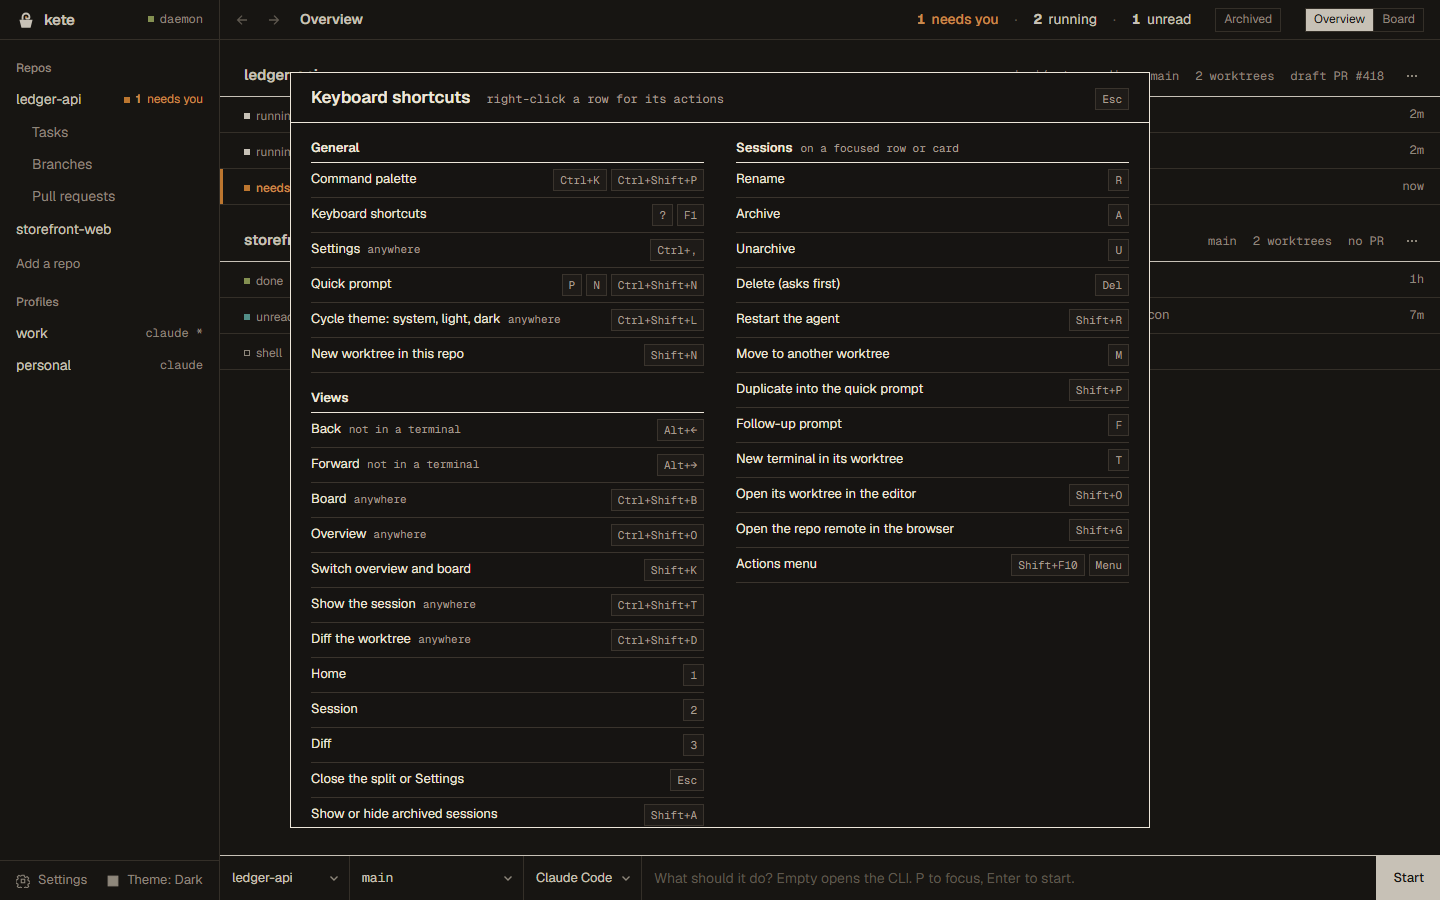
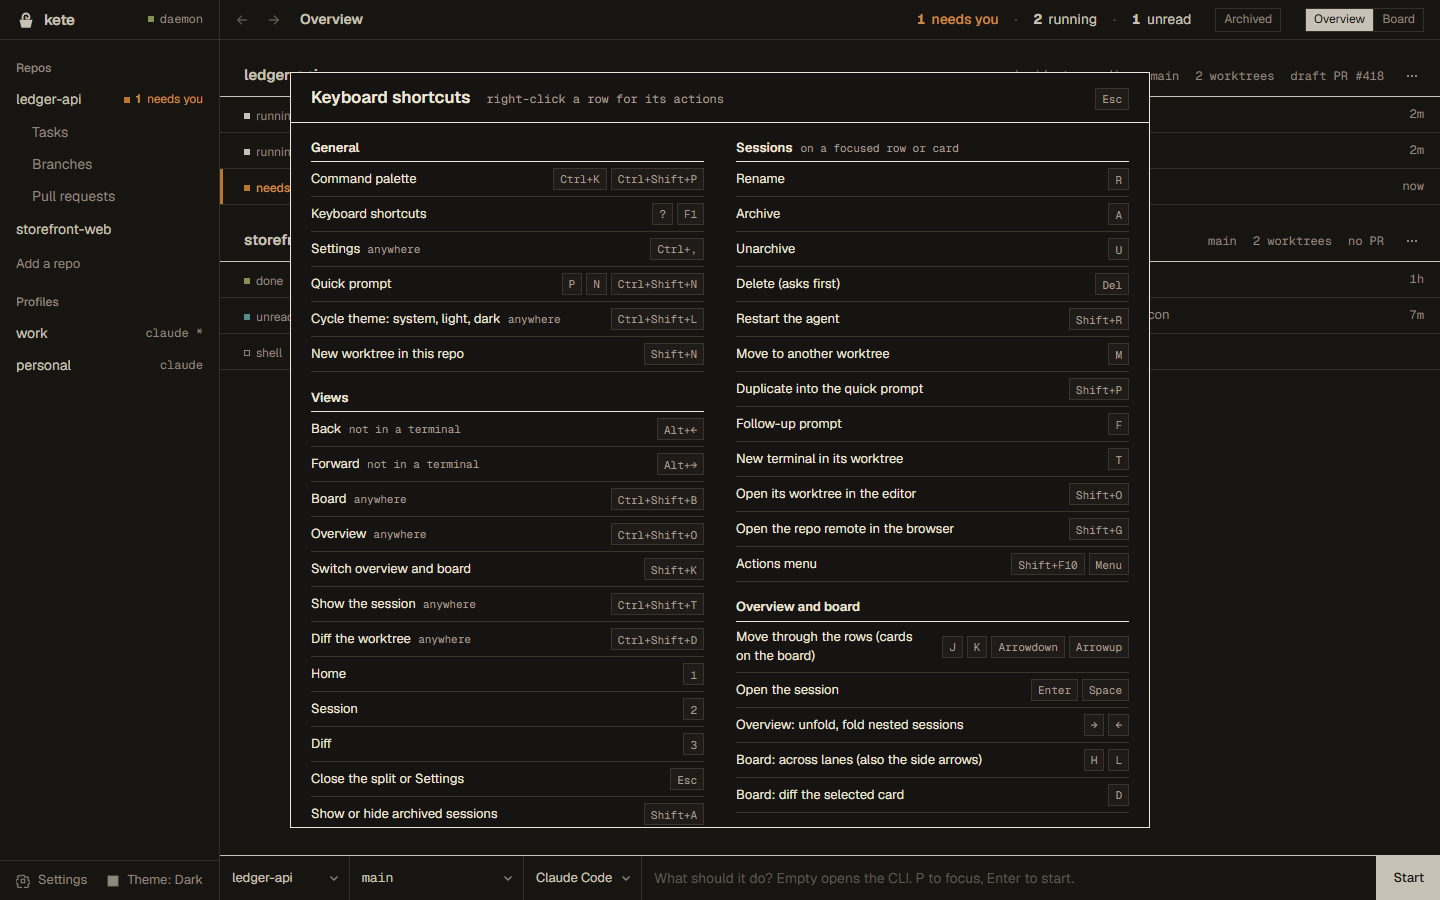
desktop: the help lists the overview and board keys from the same table; help takes focus; the quick prompt's options open over the column; a data-dir test for the real wrappers; demo self-test of the layers

diff --git a/desktop/src/lib/shortcuts.ts b/desktop/src/lib/shortcuts.ts
@@ -37,7 +37,12 @@ export type ShortcutId =
   | 'new_terminal'
   | 'open_editor'
   | 'open_remote'
-  | 'row_menu';
+  | 'row_menu'
+  | 'list_move'
+  | 'list_open'
+  | 'overview_fold'
+  | 'board_lanes'
+  | 'board_diff';
 
 /**
  * Where a key counts:
@@ -45,9 +50,12 @@ export type ShortcutId =
  * - `fields`: while typing in a field, but not inside a terminal (whose
  *   shell owns the key: Ctrl+K is kill-line, Alt+arrows are words);
  * - `global`: only when no field or terminal has the keys;
- * - `row`: like `global`, acting on the focused session row or card.
+ * - `row`: like `global`, acting on the focused session row or card;
+ * - `overview`, `board`: the home view's own walking keys, handled by
+ *   Overview.svelte and Board.svelte (listed here for the help and the
+ *   clash test; App.svelte never dispatches them).
  */
-export type Scope = 'anywhere' | 'fields' | 'global' | 'row';
+export type Scope = 'anywhere' | 'fields' | 'global' | 'row' | 'overview' | 'board';
 
 export interface Shortcut {
   id: ShortcutId;
@@ -55,7 +63,7 @@ export interface Shortcut {
   keys: string[];
   scope: Scope;
   label: string;
-  group: 'General' | 'Views' | 'Sessions';
+  group: 'General' | 'Views' | 'Sessions' | 'Overview and board';
 }
 
 export const SHORTCUTS: Shortcut[] = [
@@ -94,6 +102,12 @@ export const SHORTCUTS: Shortcut[] = [
   { id: 'open_editor', keys: ['shift+o'], scope: 'row', label: 'Open its worktree in the editor', group: 'Sessions' },
   { id: 'open_remote', keys: ['shift+g'], scope: 'row', label: 'Open the repo remote in the browser', group: 'Sessions' },
   { id: 'row_menu', keys: ['shift+f10', 'contextmenu'], scope: 'row', label: 'Actions menu', group: 'Sessions' },
+
+  { id: 'list_move', keys: ['j', 'k', 'arrowdown', 'arrowup'], scope: 'overview', label: 'Move through the rows (cards on the board)', group: 'Overview and board' },
+  { id: 'list_open', keys: ['enter', 'space'], scope: 'overview', label: 'Open the session', group: 'Overview and board' },
+  { id: 'overview_fold', keys: ['arrowright', 'arrowleft'], scope: 'overview', label: 'Overview: unfold, fold nested sessions', group: 'Overview and board' },
+  { id: 'board_lanes', keys: ['h', 'l'], scope: 'board', label: 'Board: across lanes (also the side arrows)', group: 'Overview and board' },
+  { id: 'board_diff', keys: ['d'], scope: 'board', label: 'Board: diff the selected card', group: 'Overview and board' },
 ];
 
 /** The chord a key event spells: modifiers in ctrl, alt, shift order, then
@@ -128,6 +142,9 @@ export function inScope(scope: Scope, ctx: KeyContext): boolean {
       return !ctx.typing;
     case 'row':
       return !ctx.typing && ctx.onRow;
+    case 'overview':
+    case 'board':
+      return false;
   }
 }
 

diff --git a/desktop/demo/demo-ipc.js b/desktop/demo/demo-ipc.js
@@ -52,7 +52,7 @@ const model = {
 
 // Wave 2 shots (menu, palette, help, quick) want a fuller overview: a
 // session per state, a nested one, a terminal and a PR.
-const W2 = ['menu', 'palette', 'help', 'quick'].includes(q.get('view'));
+const W2 = ['menu', 'palette', 'help', 'quick', 'selftest'].includes(q.get('view'));
 if (W2) {
   const a = (id, worktree_id, name, status, extra = {}) => ({
     id, worktree_id, name, status, archived: false, unseen: false, status_changed_at: now - 60_000,
@@ -315,6 +315,41 @@ window.addEventListener('load', async () => {
   if (view === 'help') {
     await ready();
     key('?', { shiftKey: true });
+    return;
+  }
+  // view=selftest: each layer takes the keys when it opens and Esc on
+  // whatever has the focus closes it. The verdict goes in the title, for
+  // a headless --dump-dom to read.
+  if (view === 'selftest') {
+    await ready();
+    const esc = () => (document.activeElement ?? document.body).dispatchEvent(new KeyboardEvent('keydown', { key: 'Escape', bubbles: true }));
+    const out = [];
+    const check = async (name, open, sel) => {
+      open();
+      await wait(150);
+      const opened = !!document.querySelector(sel);
+      esc();
+      await wait(150);
+      out.push(name + ':' + (opened && !document.querySelector(sel) ? 'ok' : opened ? 'stuck' : 'no-open'));
+    };
+    await check('help', () => key('?', { shiftKey: true }), '[aria-labelledby="help-title"]');
+    await check('palette', () => key('k', { ctrlKey: true }), '[aria-label="Command palette"]');
+    await check('menu', () => {
+      const row = document.querySelector('[data-target="agent:a1"]');
+      row.dispatchEvent(new MouseEvent('contextmenu', { bubbles: true, clientX: 400, clientY: 120 }));
+    }, '[role="menu"]');
+    await check('rowkey-rename', () => {
+      document.querySelector('[data-target="agent:a1"]').focus();
+      document.activeElement.dispatchEvent(new KeyboardEvent('keydown', { key: 'r', bubbles: true }));
+    }, '[role="dialog"][aria-labelledby="dialog-title"]');
+    // The quick prompt's options row opens over the column, not in it.
+    const col = document.querySelector('main > div.relative');
+    const before = col.getBoundingClientRect().height;
+    document.querySelector('textarea[aria-label="Prompt"]').focus();
+    await wait(150);
+    const opened = !!document.querySelector('[aria-label="Launch options"]');
+    out.push('quick-height:' + (opened && col.getBoundingClientRect().height === before ? 'ok' : opened ? 'shrank' : 'no-open'));
+    document.title = 'SELFTEST ' + out.join(' ');
     return;
   }
   if (view === 'quick') {

diff --git a/desktop/src/lib/shortcuts.test.ts b/desktop/src/lib/shortcuts.test.ts
@@ -32,6 +32,14 @@ describe('the shortcut table', () => {
     expect(clashes).toEqual([]);
   });
 
+  it('never lets a window key take a home view walking key (Board d, j/k, h/l, Enter)', () => {
+    const home = SHORTCUTS.filter((s) => s.scope === 'overview' || s.scope === 'board').flatMap((s) => s.keys);
+    const window = SHORTCUTS.filter((s) => s.scope !== 'overview' && s.scope !== 'board').flatMap((s) => s.keys);
+    expect(home).toContain('d');
+    expect(window.filter((k) => home.includes(k))).toEqual([]);
+    expect(shortcutFor(key('d'), row)).toBeUndefined();
+  });
+
   it('has unique ids and every action a key', () => {
     const ids = SHORTCUTS.map((s) => s.id);
     expect(new Set(ids).size).toBe(ids.length);
@@ -40,7 +48,7 @@ describe('the shortcut table', () => {
 
   it('keeps Board d as diff and the terminal app row letters', () => {
     const keys = (id: string) => SHORTCUTS.find((s) => s.id === id)!.keys;
-    expect(SHORTCUTS.some((s) => s.keys.includes('d'))).toBe(false);
+    expect(SHORTCUTS.filter((s) => s.keys.includes('d')).map((s) => s.id)).toEqual(['board_diff']);
     expect(keys('rename')).toEqual(['r']);
     expect(keys('archive')).toEqual(['a']);
     expect(keys('unarchive')).toEqual(['u']);
@@ -80,7 +88,7 @@ describe('chordOf and shortcutFor', () => {
 
   it('groups the help in table order', () => {
     const groups = helpGroups();
-    expect(groups.map((g) => g.group)).toEqual(['General', 'Views', 'Sessions']);
+    expect(groups.map((g) => g.group)).toEqual(['General', 'Views', 'Sessions', 'Overview and board']);
     const keys = (n: number, g: { rows: { keys: string[] }[] }) => n + g.rows.reduce((m, r) => m + r.keys.length, 0);
     expect(groups.reduce(keys, 0)).toBe(SHORTCUTS.reduce((n, s) => n + s.keys.length, 0));
     const palette = groups[0].rows.find((r) => r.label === 'Command palette')!;
@@ -90,6 +98,6 @@ describe('chordOf and shortcutFor', () => {
 
   it('every scope is reachable', () => {
     const scopes = new Set<Scope>(SHORTCUTS.map((s) => s.scope));
-    expect([...scopes].sort()).toEqual(['anywhere', 'fields', 'global', 'row']);
+    expect([...scopes].sort()).toEqual(['anywhere', 'board', 'fields', 'global', 'overview', 'row']);
   });
 });

diff --git a/desktop/src/lib/Help.svelte b/desktop/src/lib/Help.svelte
@@ -1,6 +1,7 @@
 <script lang="ts">
   // ? or F1: every shortcut the window answers, from the one table App.svelte
   // dispatches through, so this list can't drift from the keys.
+  import { tick } from 'svelte';
   import { ui } from './ui/ui.svelte';
   import { helpGroups, keyLabel, type Scope } from './shortcuts';
 
@@ -10,7 +11,16 @@
     fields: 'not in a terminal',
     global: '',
     row: '',
+    overview: '',
+    board: '',
   };
+
+  // Take the keys when it opens, so Esc, ? and F1 reach it (the window's
+  // own key handler stands down while a layer is up).
+  let box = $state<HTMLDivElement>();
+  $effect(() => {
+    if (ui.help) tick().then(() => box?.focus());
+  });
 
   function onKey(e: KeyboardEvent) {
     e.stopPropagation();
@@ -21,14 +31,13 @@
 {#if ui.help}
   <!-- svelte-ignore a11y_no_static_element_interactions, a11y_click_events_have_key_events -->
   <div class="fixed inset-0 z-40 bg-[rgb(28_25_23/0.18)]" onmousedown={() => (ui.help = false)}></div>
-  <!-- svelte-ignore a11y_autofocus -->
   <div
+    bind:this={box}
     class="fixed top-[8%] left-1/2 z-50 flex max-h-[84vh] w-[min(860px,94vw)] -translate-x-1/2 flex-col border border-rule-strong bg-bg text-ink outline-none"
     role="dialog"
     aria-modal="true"
     aria-labelledby="help-title"
     tabindex="-1"
-    autofocus
     onkeydown={onKey}
   >
     <header class="flex flex-none items-baseline gap-4 border-b border-rule-strong px-5 py-3">

diff --git a/desktop/src/lib/QuickPrompt.svelte b/desktop/src/lib/QuickPrompt.svelte
@@ -204,7 +204,7 @@
 
 <form
   bind:this={form}
-  class="flex flex-none flex-col border-t border-rule-strong bg-bg"
+  class="relative flex flex-none flex-col border-t border-rule-strong bg-bg"
   aria-label="Start a session"
   onfocusin={() => (focused = true)}
   onfocusout={onFocusOut}
@@ -214,7 +214,13 @@
   }}
 >
   {#if expanded}
-    <div class="flex h-8 items-stretch border-b border-rule" role="group" aria-label="Launch options">
+    <!-- Over the column, not in it: opening it must not shrink the split
+         (a session terminal would refit and redraw on every focus). -->
+    <div
+      class="absolute right-0 bottom-full left-0 z-10 flex h-8 items-stretch border-t border-rule-strong bg-bg"
+      role="group"
+      aria-label="Launch options"
+    >
       <span class="relative flex max-w-60 min-w-0 items-center border-r border-rule">
         <span class={optLabel}>model</span>
         <select class="{pick} font-mono text-[12px]" bind:value={model} disabled={isTerminal || !models.length} aria-label="Model">

diff --git a/desktop/src-tauri/src/profiles.rs b/desktop/src-tauri/src/profiles.rs
@@ -354,3 +354,61 @@ mod tests {
         assert!(remove_at(&config, &root, "work").is_err());
     }
 }
+
+/// The real command wrappers resolve every file under `NEBULA_DATA_DIR`
+/// (never the user's own config): presets and profiles written through
+/// them land in a temp data dir.
+#[cfg(test)]
+mod wrappers {
+    use std::sync::Mutex;
+
+    static ENV: Mutex<()> = Mutex::new(());
+
+    #[test]
+    fn preset_and_profile_commands_write_under_the_data_dir() {
+        let _guard = ENV.lock().unwrap_or_else(|e| e.into_inner());
+        let dir = tempfile::tempdir().unwrap();
+        let keep_data = std::env::var_os("NEBULA_DATA_DIR");
+        let keep_file = std::env::var_os("NEBULA_CONFIG_FILE");
+        std::env::set_var("NEBULA_DATA_DIR", dir.path());
+        std::env::remove_var("NEBULA_CONFIG_FILE");
+
+        let result = std::panic::catch_unwind(|| {
+            assert!(crate::presets::presets_list().is_empty());
+            crate::presets::preset_save(
+                None,
+                serde_json::from_value(serde_json::json!({"name": "r", "harness": "claude"}))
+                    .unwrap(),
+            )
+            .unwrap();
+            assert!(dir.path().join("agent_presets.json").is_file());
+            assert_eq!(crate::presets::presets_list().len(), 1);
+
+            let saved = super::profile_add(super::ProfileForm {
+                name: "work".into(),
+                harness: "claude".into(),
+                default: true,
+                use_default: false,
+                env: String::new(),
+            })
+            .unwrap();
+            assert_eq!(saved.login.as_deref(), Some("kete profile login work"));
+            assert!(dir.path().join("config.json").is_file());
+            assert!(dir.path().join("profiles").join("work").is_dir());
+            assert_eq!(super::profiles_list().len(), 1);
+            super::profile_remove("work".into()).unwrap();
+            assert!(super::profiles_list().is_empty());
+        });
+
+        match keep_data {
+            Some(v) => std::env::set_var("NEBULA_DATA_DIR", v),
+            None => std::env::remove_var("NEBULA_DATA_DIR"),
+        }
+        if let Some(v) = keep_file {
+            std::env::set_var("NEBULA_CONFIG_FILE", v);
+        }
+        if let Err(e) = result {
+            std::panic::resume_unwind(e);
+        }
+    }
+}
